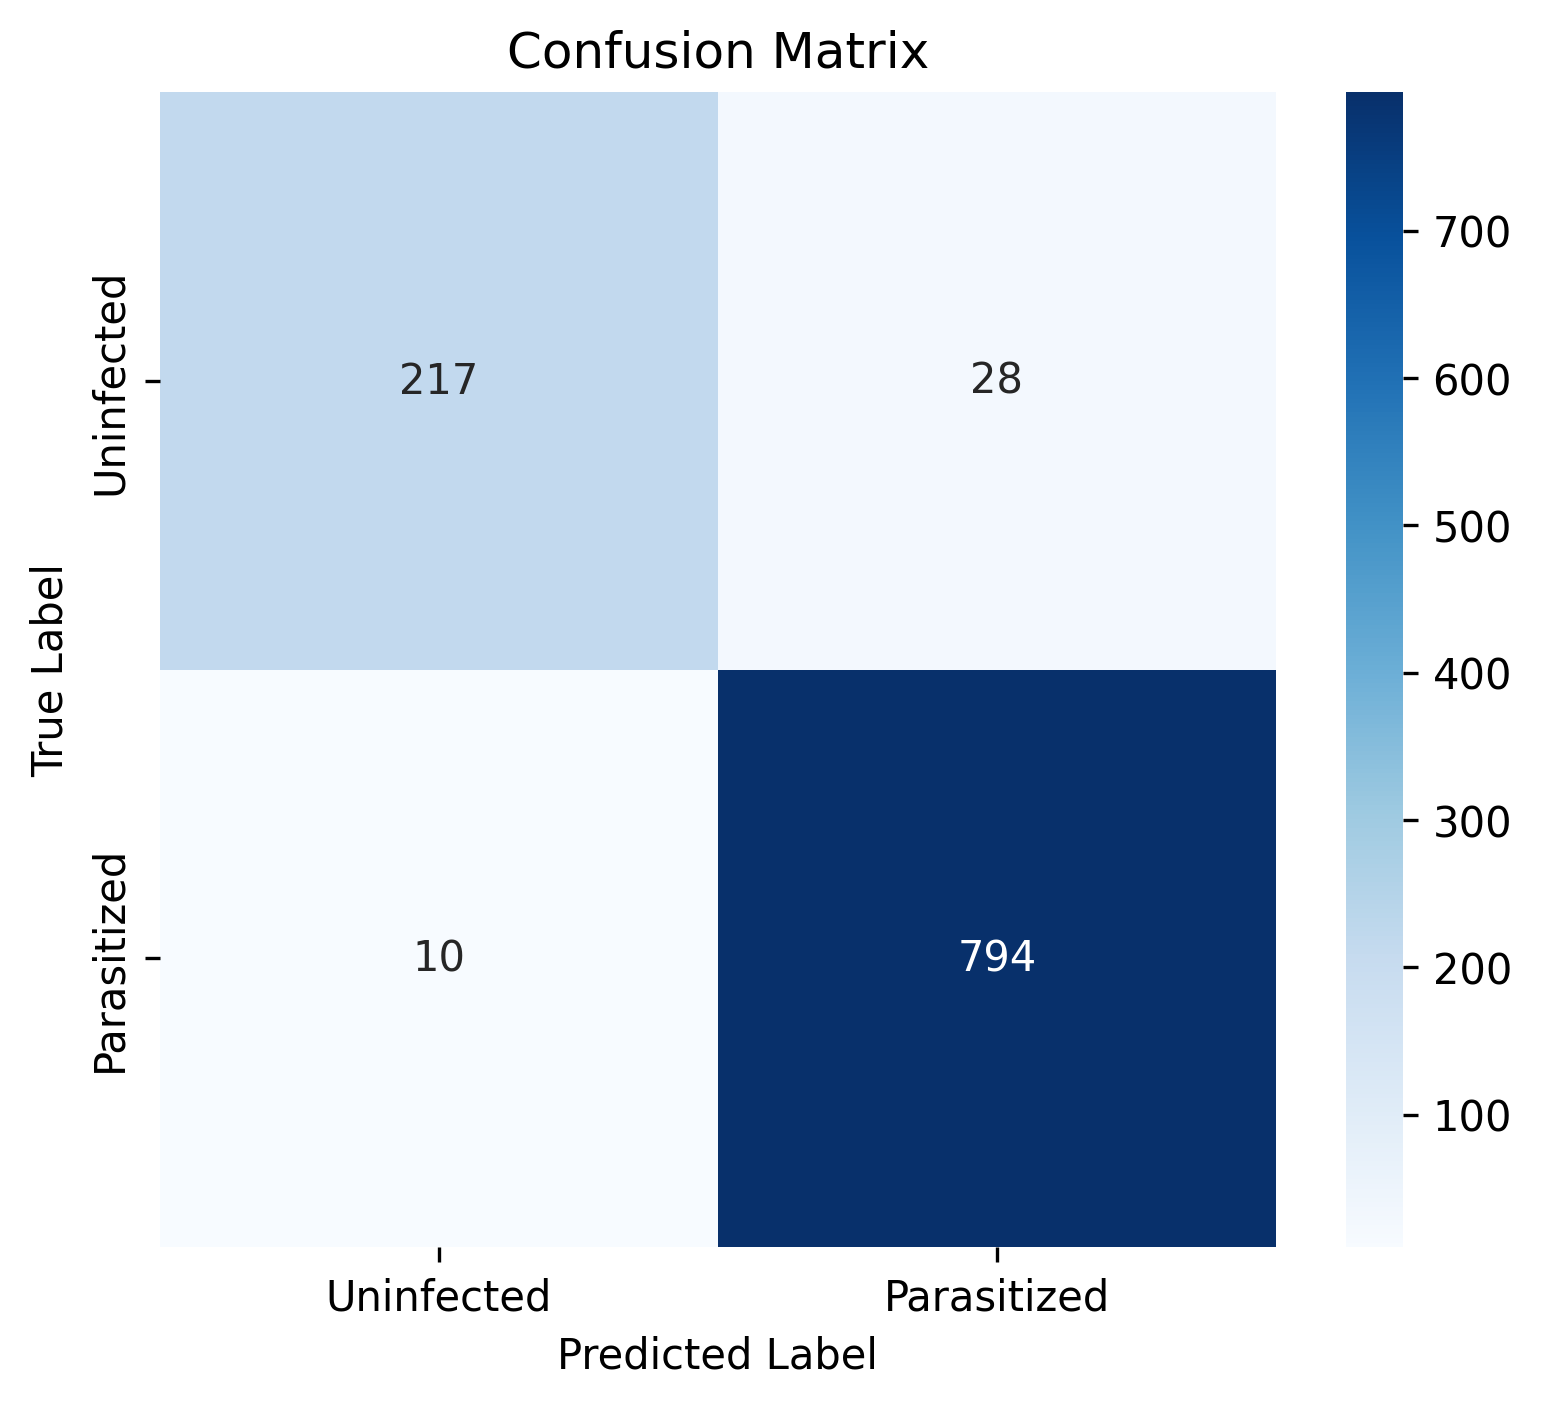
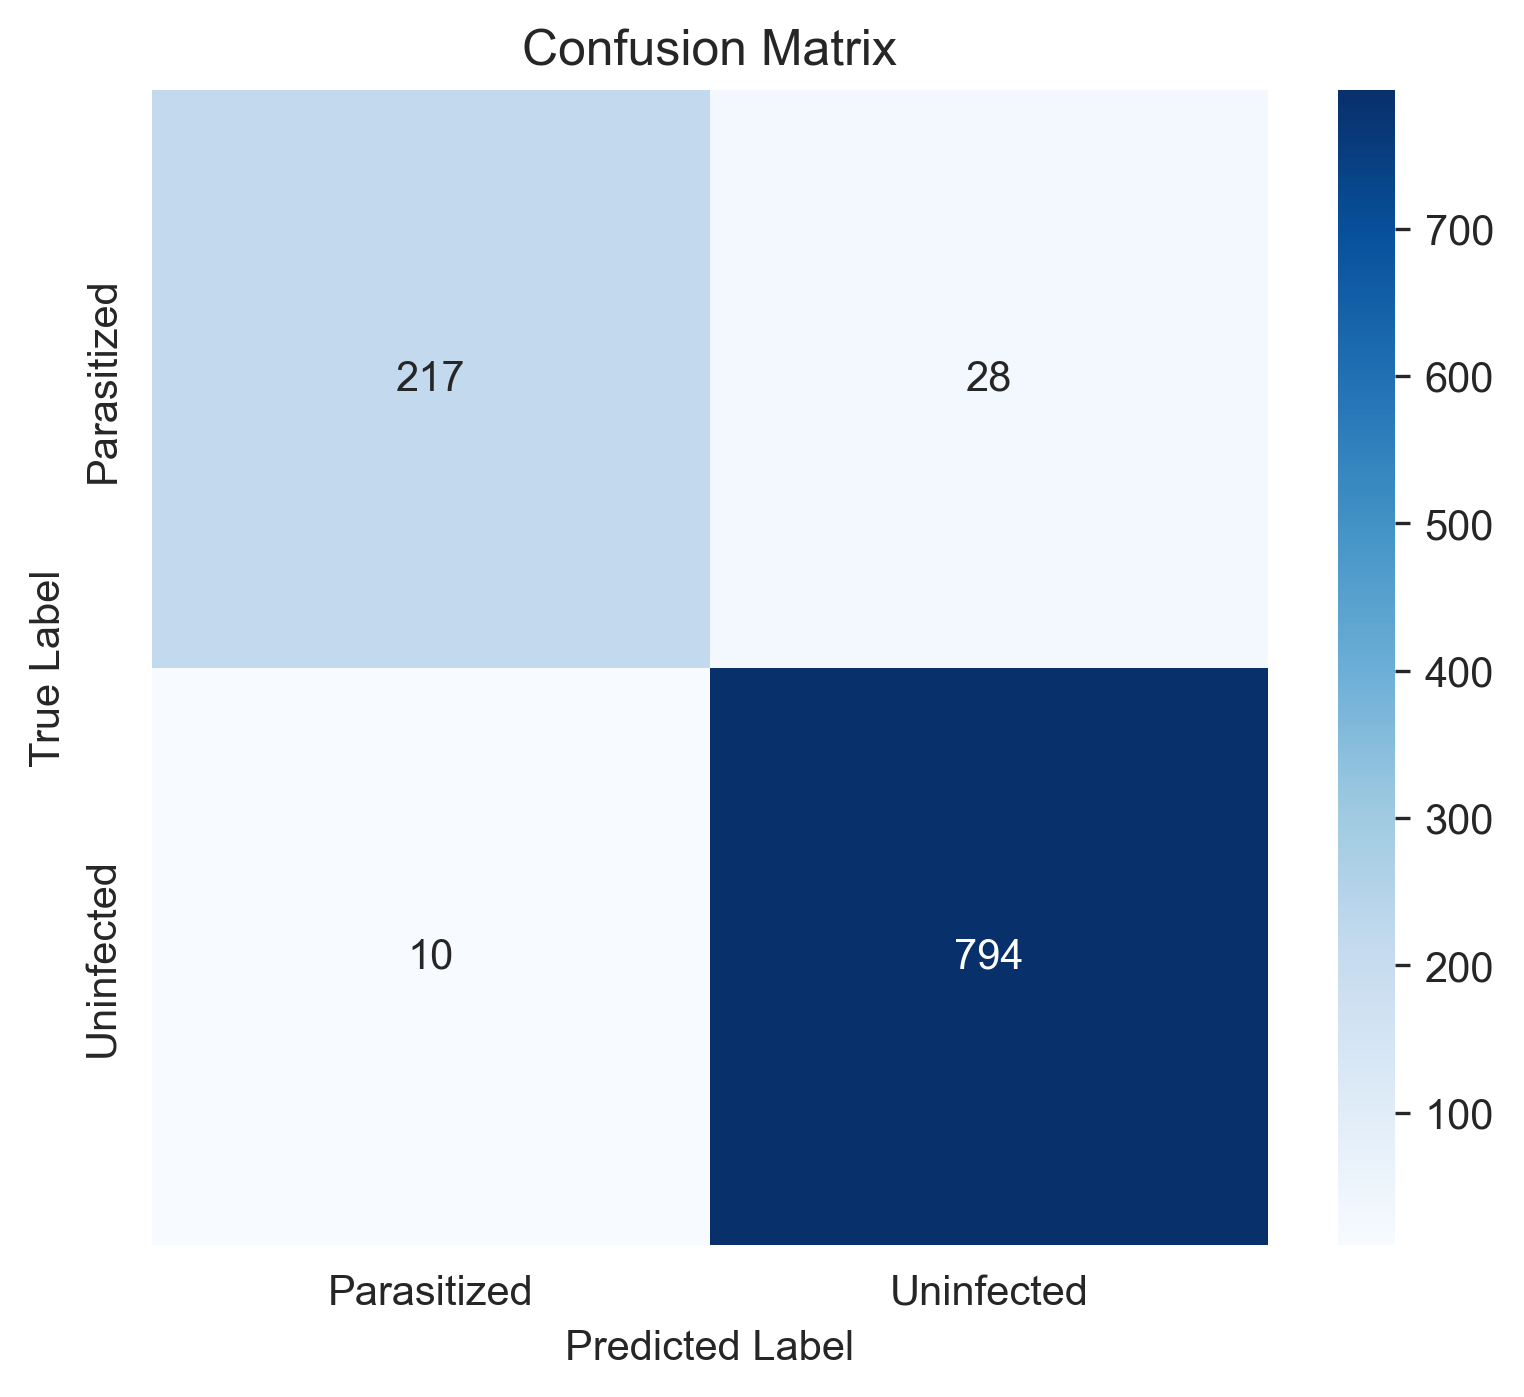
fixed another oopsie

diff --git a/PyClassifier/src/train_model.py b/PyClassifier/src/train_model.py
@@ -79,13 +79,14 @@ def main():
     train_class_counts = ds.num_img_per_class(train_set)
     val_class_counts = ds.num_img_per_class(val_set)
     test_class_counts = ds.num_img_per_class(test_set)
-    print(f'  Class 0: {class_names[0]}, Class 1: {class_names[1]}')
+    mapping = {i: name for i, name in enumerate(class_names)}
+    print(f"  Classes: {(mapping)}")
     print('  Training set:', train_class_counts)
     print('  Validation set:', val_class_counts)
     print('  Test set:', test_class_counts)
 
     # OPTIONAL: plot class distribution
-    # vis.plot_class_distribution(train_class_counts, val_class_counts)
+    vis.plot_class_distribution(train_class_counts, val_class_counts)
 
     # [HANDLING IMBALANCE] through class weights
     neg = train_class_counts[0]  # 0
@@ -117,64 +118,64 @@ def main():
     # MODEL FACTORY
     builder = model.make_builder(pos, neg)
 
-    # load a fresh model
-    best_model = builder(hp)
-    print('Parameters loaded')
-    best_model.summary()
+    # # load a fresh model
+    # best_model = builder(hp)
+    # print('Parameters loaded')
+    # best_model.summary()
 
-    # [CALLBACKS] to account for a small validation set!!!
-    print('Pre-training with early stopping')
-    stop_early = keras.callbacks.EarlyStopping(
-        monitor='val_loss',
-        mode='min',
-        patience=config.patience_train, 
-        restore_best_weights=True
-    )
+    # # [CALLBACKS] to account for a small validation set!!!
+    # print('Pre-training with early stopping')
+    # stop_early = keras.callbacks.EarlyStopping(
+    #     monitor='val_loss',
+    #     mode='min',
+    #     patience=config.patience_train, 
+    #     restore_best_weights=True
+    # )
 
-    reduce_lr = keras.callbacks.ReduceLROnPlateau(
-        monitor='val_loss',
-        factor=0.5,
-        patience=3,
-        min_lr=1e-6,
-        verbose=1
-    )
+    # reduce_lr = keras.callbacks.ReduceLROnPlateau(
+    #     monitor='val_loss',
+    #     factor=0.5,
+    #     patience=3,
+    #     min_lr=1e-6,
+    #     verbose=1
+    # )
 
-    # [PRE-TRAINING]
-    history = best_model.fit(
-        train_set,
-        epochs=config.epochs_train,
-        validation_data=val_set,
-        class_weight=weights,
-        callbacks=[stop_early, reduce_lr]
-    )
-    vis.plot_learning_curves(history)
+    # # [PRE-TRAINING]
+    # history = best_model.fit(
+    #     train_set,
+    #     epochs=config.epochs_train,
+    #     validation_data=val_set,
+    #     class_weight=weights,
+    #     callbacks=[stop_early, reduce_lr]
+    # )
+    # vis.plot_learning_curves(history)
 
-    # [TRAINING]
-    # first determine the optimal number of epochs
-    metric_per_epoch = history.history['val_loss']
-    best_epoch = metric_per_epoch.index(min(metric_per_epoch)) + 1 # due to indexing from 0
-    print(f"Best epoch found: {best_epoch}")
+    # # [TRAINING]
+    # # first determine the optimal number of epochs
+    # metric_per_epoch = history.history['val_loss']
+    # best_epoch = metric_per_epoch.index(min(metric_per_epoch)) + 1 # due to indexing from 0
+    # print(f"Best epoch found: {best_epoch}")
 
-    # create fresh model and retrain it on the full train set
-    print('RE-Training on the entire training set for ', best_epoch, ' epochs')
-    best_model = builder(hp)
-    history = best_model.fit(
-        train_set.concatenate(val_set),
-        epochs=best_epoch,
-        class_weight=weights,
-        callbacks=[reduce_lr]
-    )
+    # # create fresh model and retrain it on the full train set
+    # print('RE-Training on the entire training set for ', best_epoch, ' epochs')
+    # best_model = builder(hp)
+    # history = best_model.fit(
+    #     train_set.concatenate(val_set),
+    #     epochs=best_epoch,
+    #     class_weight=weights,
+    #     callbacks=[reduce_lr]
+    # )
 
-    # save the resulting model
-    save_path = os.path.join(config.save_directory, 'malaria_det.keras')
-    if not os.path.exists(config.save_directory):
-        print(f"Directory {config.save_directory} not found. Creating it...")
-        os.makedirs(config.save_directory, exist_ok=True)
-    keras.saving.save_model(best_model, save_path)
-    print(f'trained model saved at {save_path}')
+    # # save the resulting model
+    # save_path = os.path.join(config.save_directory, 'malaria_det.keras')
+    # if not os.path.exists(config.save_directory):
+    #     print(f"Directory {config.save_directory} not found. Creating it...")
+    #     os.makedirs(config.save_directory, exist_ok=True)
+    # keras.saving.save_model(best_model, save_path)
+    # print(f'trained model saved at {save_path}')
 
     # TODO: load it from the saved file and move this part to classifier.py
-    # best_model = keras.models.load_model(os.path.join(config.save_directory, 'malaria_det.keras'))
+    best_model = keras.models.load_model(os.path.join(config.save_directory, 'malaria_det.keras'))
 
     # evaluate only if required
     if (config.evaluate) :
@@ -191,17 +192,12 @@ def main():
         if not os.path.exists(config.image_directory):
             print(f"Directory {config.image_directory} not found. Creating it...")
 
-        # full classification report with precision, recall, F1-score
-        y_true = []
-        y_probs = []
-        for x_batch, y_batch in test_set:
-            preds = best_model.predict(x_batch, verbose='0').ravel()
-            y_probs.extend(preds)
-            y_true.extend(y_batch.numpy())
+        # prediction
+        y_probs = best_model.predict(test_set).ravel()
+        y_true = np.concatenate([y for x, y in test_set], axis=0)
+        y_pred = (y_probs > 0.5).astype(int)
 
-        y_true = np.array(y_true)
-        y_probs = np.array(y_probs)
-        y_pred = (y_probs > 0.5).astype(int) # uninfected or parasitized
+        # full classification report with precision, recall, F1-score
         vis.classification_report(y_true, y_pred)
 
         # ROC curve and AUC-ROC parameter

diff --git a/PyClassifier/src/visualization.py b/PyClassifier/src/visualization.py
@@ -22,7 +22,7 @@ def save_plot(filename):
     
     path = os.path.join(config.image_directory, filename)
     plt.savefig(path, dpi=300, bbox_inches='tight')
-    print(f"\tPlot saved to {path}")
+    print(f"Plot saved to {path}")
 
 def plot_class_distribution(train_class_counts, val_class_counts):
     # bar diagram of training and validation classes distribution
@@ -92,7 +92,7 @@ def plot_learning_curves(history):
     plt.show()
 
 def classification_report(y_true, y_pred):
-    print(sk_report(y_true, y_pred, labels=[0, 1], target_names=['Uninfected', 'Parasitized']))
+    print(sk_report(y_true, y_pred, labels=[0, 1], target_names=['Parasitized', 'Uninfected']))
 
 def plot_roc(y_true, y_probs):
     print(f"AUC-ROC: {roc_auc_score(y_true, y_probs):.4f}")
@@ -110,11 +110,15 @@ def plot_roc(y_true, y_probs):
     plt.show()
 
 def plot_cm(y_true, y_pred):
+    
+    # beware of class ordering: 0 is Parasitized, 1 is Uninfected
+    target_names = ['Parasitized', 'Uninfected'] 
+    
     cm = confusion_matrix(y_true, y_pred)
     plt.figure(figsize=(6, 5))
     sns.heatmap(cm, annot=True, fmt='d', cmap='Blues',
-                xticklabels=['Uninfected', 'Parasitized'],
-                yticklabels=['Uninfected', 'Parasitized'])
+                xticklabels=target_names,
+                yticklabels=target_names)
     plt.xlabel('Predicted Label')
     plt.ylabel('True Label')
     plt.title('Confusion Matrix')

diff --git a/PyClassifier/src/dataset.py b/PyClassifier/src/dataset.py
@@ -20,7 +20,6 @@ def augment(image, label):
 
 
 def get_datasets():
-    
     train_ds, val_test_ds = keras.utils.image_dataset_from_directory(
         config.directory,
         validation_split=config.val_split,
